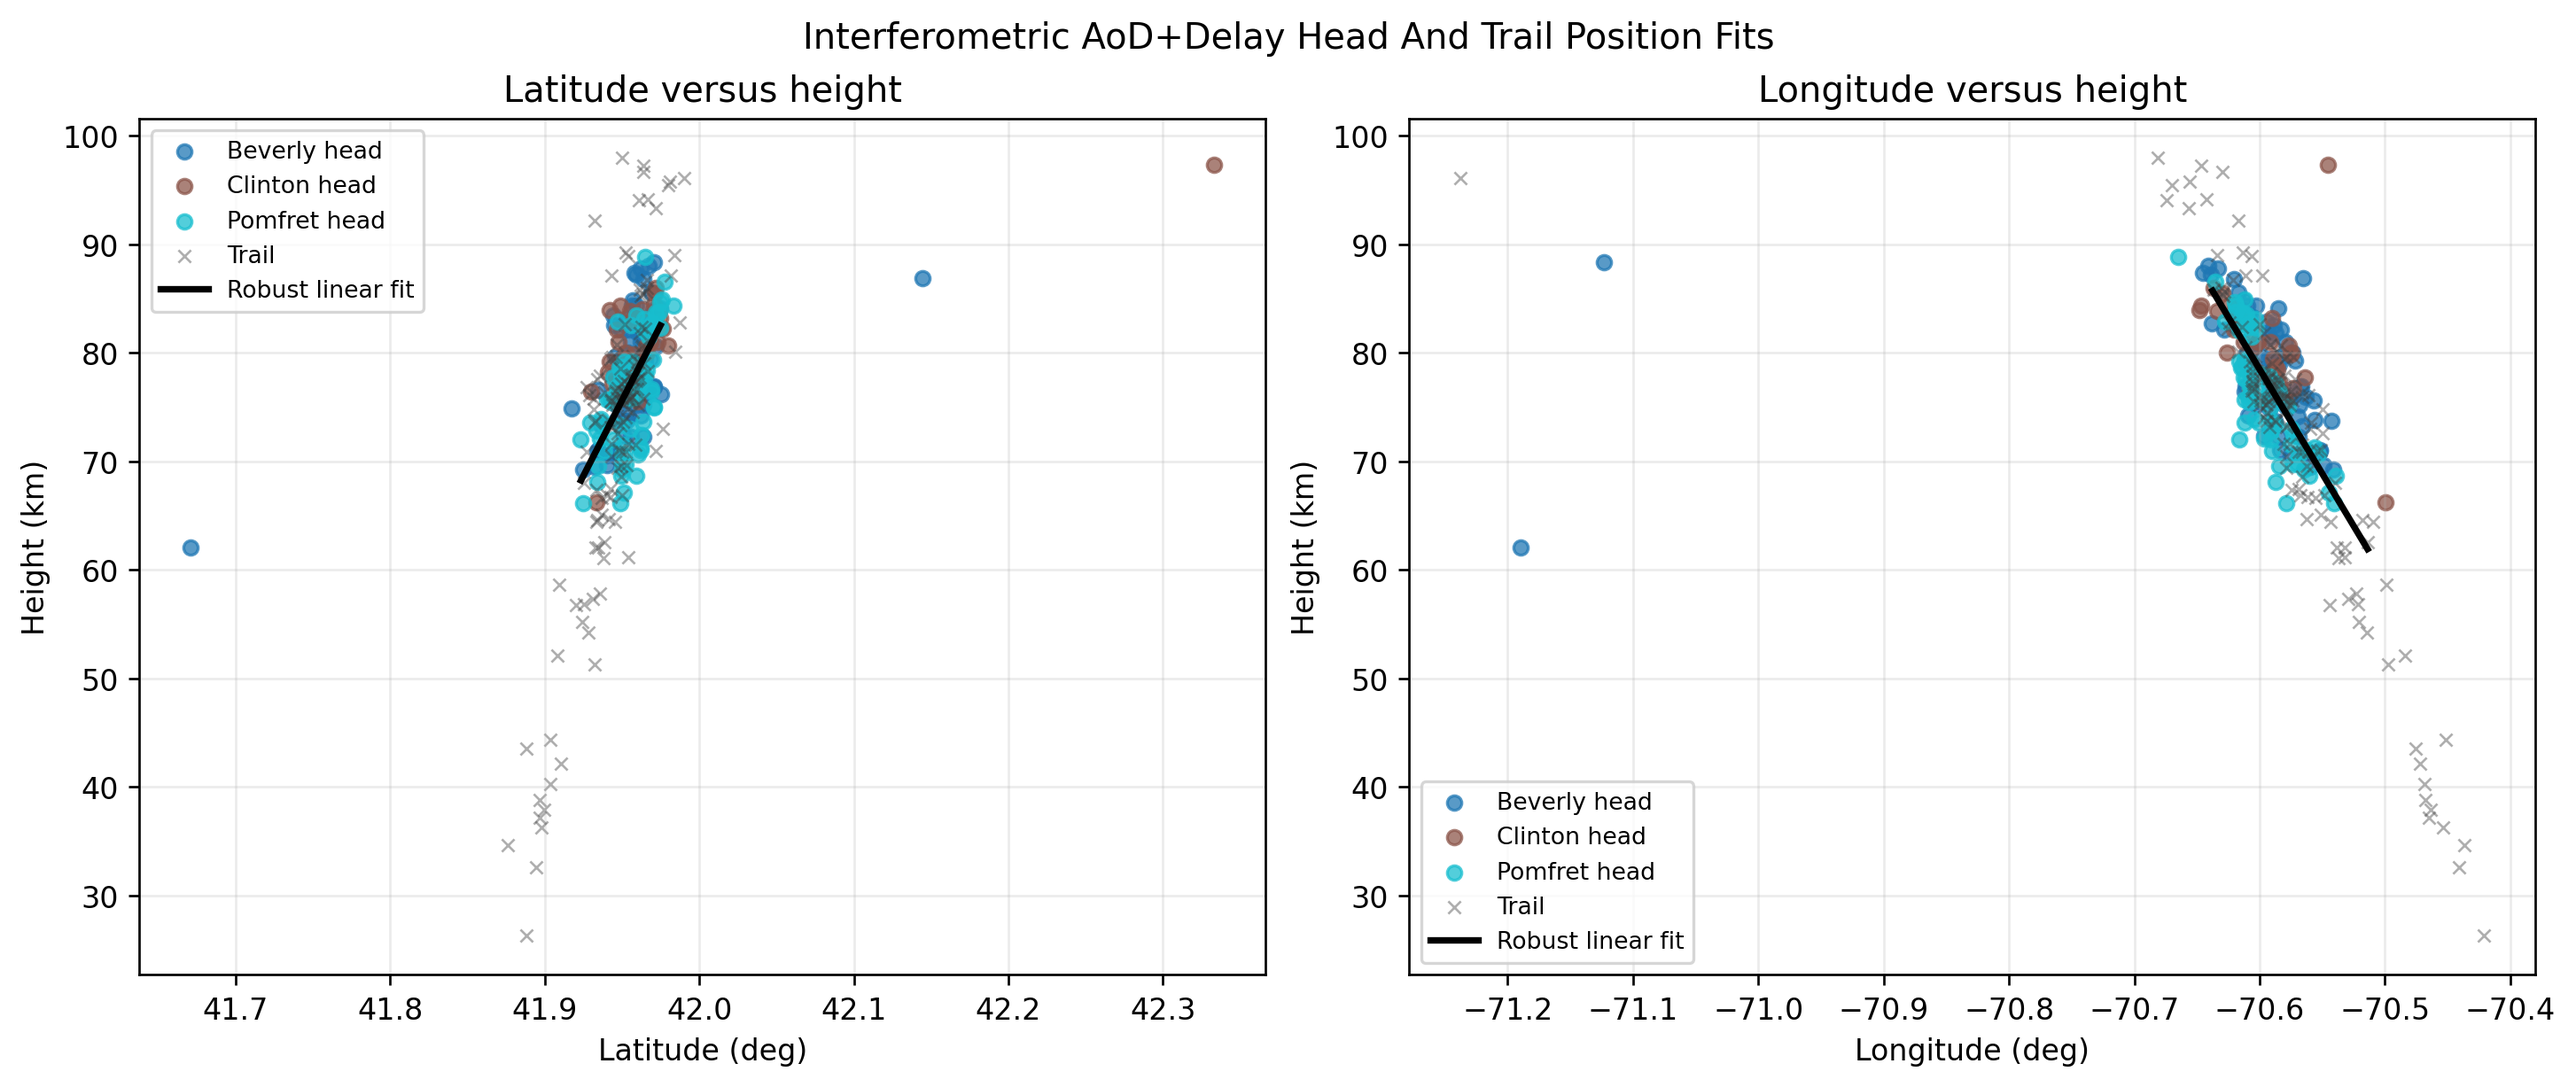
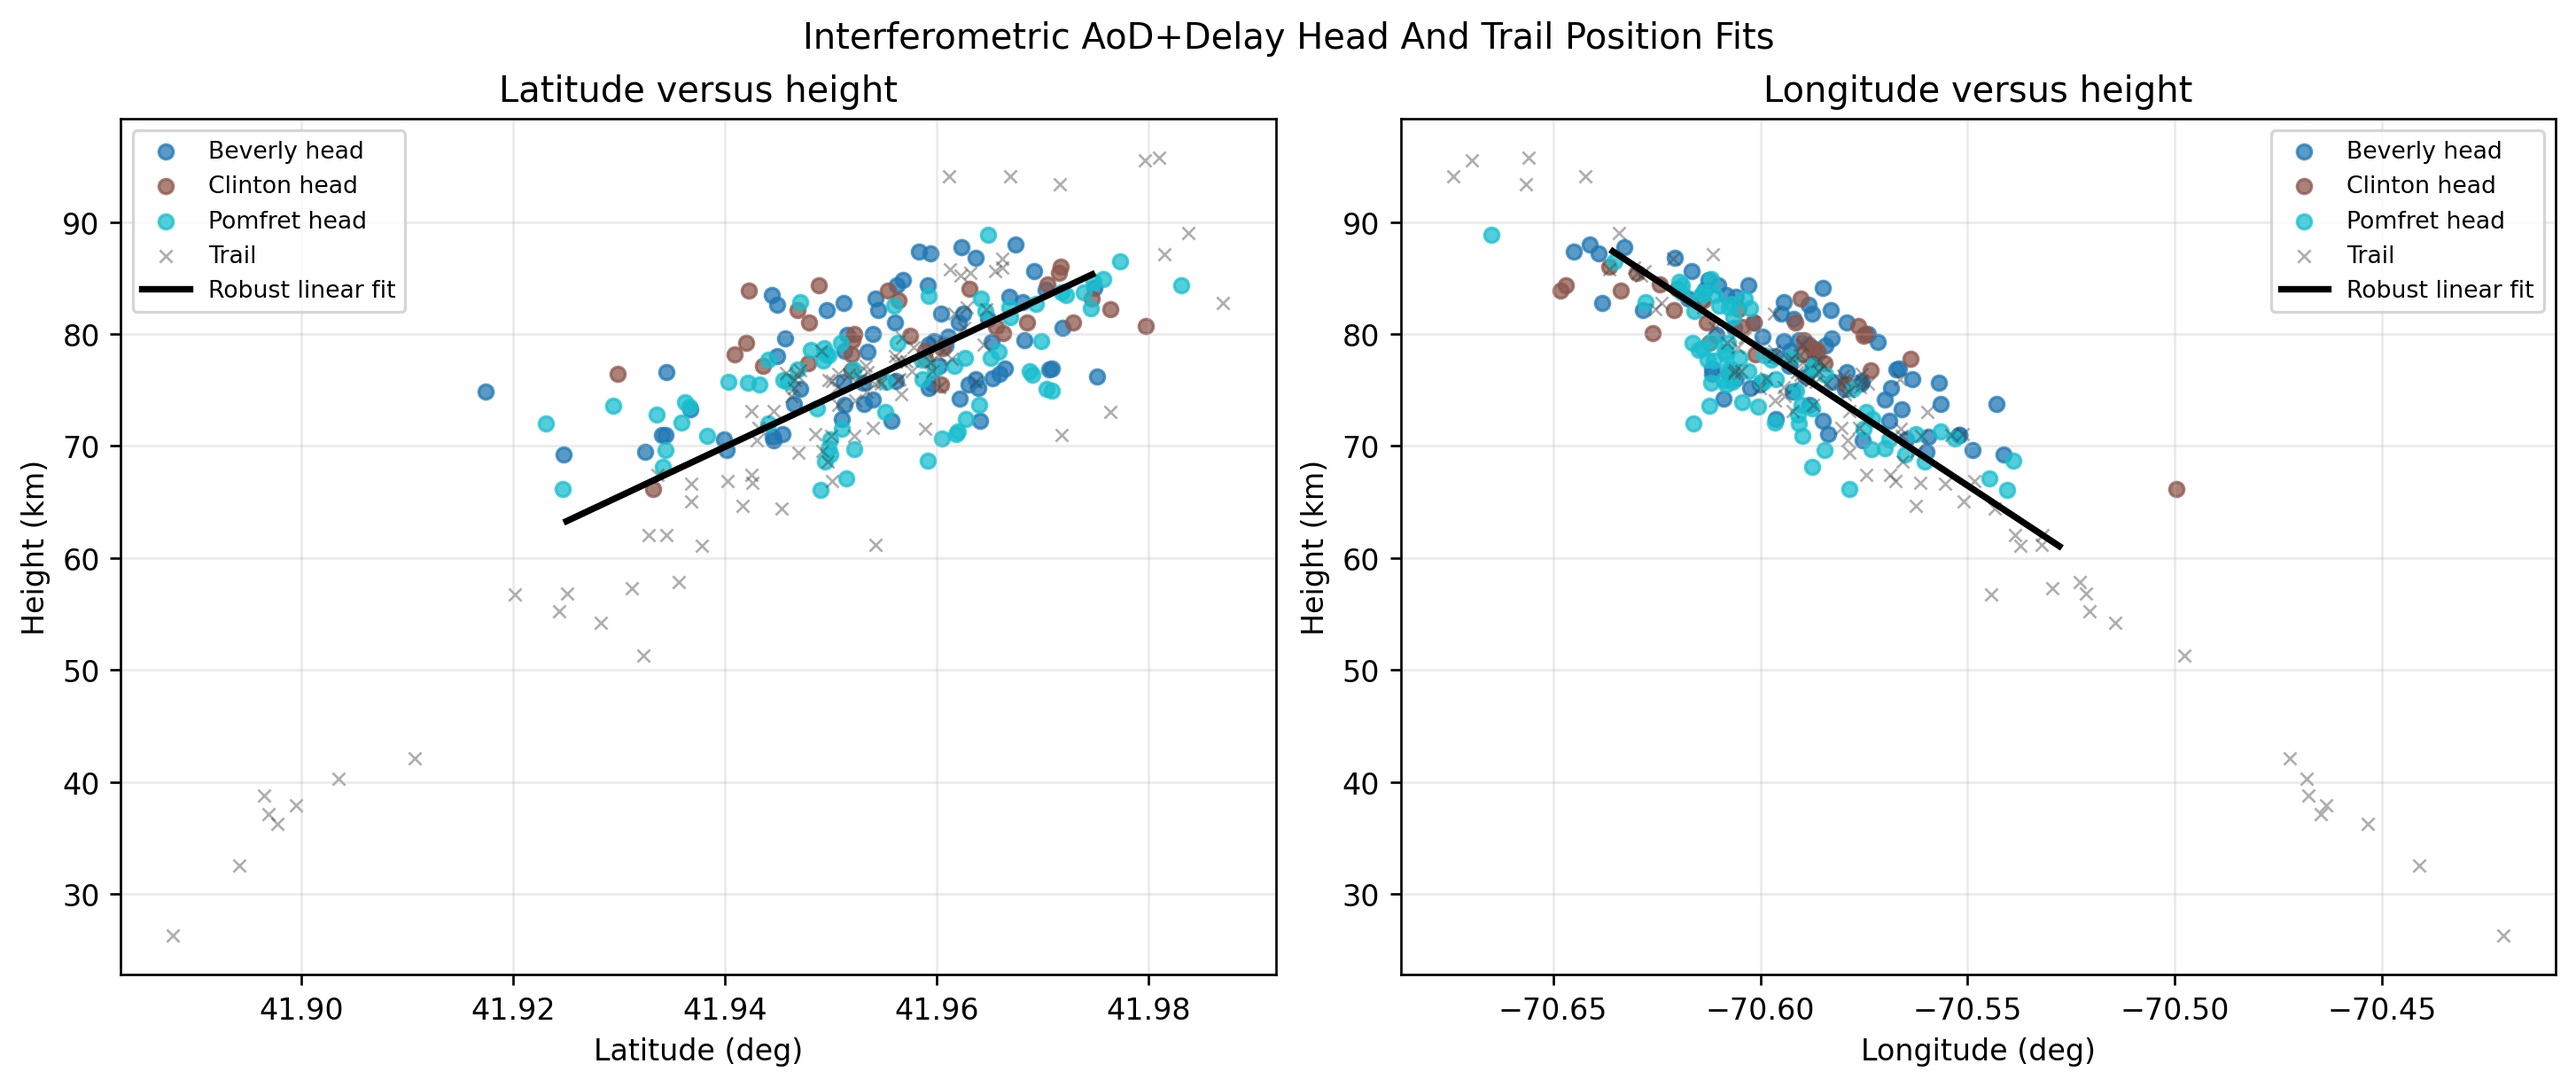
Filter AoD comparison figure geographically

diff --git a/aod_position_from_merged.py b/aod_position_from_merged.py
@@ -30,6 +30,8 @@ DEFAULT_TRAIL_POSITIONS = "products/specular_trail_positions/specular_trail_posi
 DEFAULT_OUT_DIR = "products/aod_position_from_merged"
 DEFAULT_REPORT_FIG = "reports/figures/head_echo_aod_tristatic_comparison.png"
 DEFAULT_REPORT_TEX = "reports/aod_tristatic_comparison_summary.tex"
+FIGURE_LAT_RANGE_DEG = (41.8, 42.05)
+FIGURE_LON_RANGE_DEG = (-70.8, -70.4)
 
 
 def load_rdmf_station(path):
@@ -234,6 +236,19 @@ def closest_points_on_spatial_line(line_fit, points_enu):
     points = np.asarray(points_enu, dtype=float)
     along = (points - point) @ direction
     return point + along[:, None] * direction
+
+
+def in_figure_geo_window(row):
+    lat = float(row["lat_deg"])
+    lon = float(row["lon_deg"])
+    return (
+        FIGURE_LAT_RANGE_DEG[0] <= lat <= FIGURE_LAT_RANGE_DEG[1]
+        and FIGURE_LON_RANGE_DEG[0] <= lon <= FIGURE_LON_RANGE_DEG[1]
+    )
+
+
+def figure_geo_filtered(rows):
+    return [r for r in rows if in_figure_geo_window(r)]
 
 
 def is_ballistic_fit(fit):
@@ -472,7 +487,11 @@ def plot_map(rows, fit, sites, tx_ecef, rot, line_fit, out_png, uncertainty_samp
 
 
 def plot_appendix_comparison(rows, trail_rows, fit, tx_ecef, rot, line_fit, combined_line_fit, summary, out_png):
+    rows = figure_geo_filtered(rows)
+    trail_rows = figure_geo_filtered(trail_rows)
     all_rows = rows + trail_rows
+    if len(all_rows) < 2:
+        raise ValueError("Too few AoD+delay measurements remain after the figure geographic filter")
     lat = np.array([r["lat_deg"] for r in all_rows], dtype=float)
     lon = np.array([r["lon_deg"] for r in all_rows], dtype=float)
     height_km = np.array([r["alt_m"] for r in all_rows], dtype=float) / 1000.0
@@ -561,7 +580,10 @@ def write_report_summary(summary, out_tex, fit=None):
         f"\\newcommand{{\\AodTriPomfretMedianKm}}{{{by_station['pomfret']['median_position_error_vs_tristatic_m']/1000.0:.1f}}}",
         f"\\newcommand{{\\AodTriFigN}}{{{fig_filter['n_used']}}}",
         f"\\newcommand{{\\AodTriFigNRejected}}{{{fig_filter['n_rejected']}}}",
-        f"\\newcommand{{\\AodTriFigOutlierCutoffKm}}{{{fig_filter['cutoff_m']/1000.0:.1f}}}",
+        f"\\newcommand{{\\AodTriFigLatMin}}{{{fig_filter['lat_range_deg'][0]:.2f}}}",
+        f"\\newcommand{{\\AodTriFigLatMax}}{{{fig_filter['lat_range_deg'][1]:.2f}}}",
+        f"\\newcommand{{\\AodTriFigLonMin}}{{{fig_filter['lon_range_deg'][0]:.2f}}}",
+        f"\\newcommand{{\\AodTriFigLonMax}}{{{fig_filter['lon_range_deg'][1]:.2f}}}",
         f"\\newcommand{{\\AodTriFigMedianPointKm}}{{{fig_filter['median_position_error_vs_tristatic_m']/1000.0:.1f}}}",
         f"\\newcommand{{\\AodTriFigRmsPointKm}}{{{fig_filter['rms_position_error_vs_tristatic_m']/1000.0:.1f}}}",
         f"\\newcommand{{\\AodTriFigMedianCrossTrackKm}}{{{fig_filter['median_signed_cross_track_km']:.1f}}}",
@@ -617,8 +639,7 @@ def summarize(rows, line_fit, fit, combined_line_fit=None, combined_rows=None):
     else:
         cross_track_unit = np.array([1.0, 0.0, 0.0])
     signed_cross_track_km = ((pos - tri) @ cross_track_unit) / 1000.0
-    cutoff_m = 4000.0
-    keep = np.abs(signed_cross_track_km) <= cutoff_m / 1000.0
+    keep = np.array([in_figure_geo_window(r) for r in rows], dtype=bool)
     filtered_err = err[keep]
     filtered_signed_cross_track_km = signed_cross_track_km[keep]
     fit_pred = line_fit["predicted_enu_m"]
@@ -669,8 +690,9 @@ def summarize(rows, line_fit, fit, combined_line_fit=None, combined_rows=None):
             "tristatic_speed_mps": float(np.linalg.norm(tri_velocity)),
         },
         "figure_outlier_filter": {
-            "method": "abs_signed_cross_track_residual_le_4_km",
-            "cutoff_m": float(cutoff_m),
+            "method": "geographic_lat_lon_window",
+            "lat_range_deg": list(FIGURE_LAT_RANGE_DEG),
+            "lon_range_deg": list(FIGURE_LON_RANGE_DEG),
             "n_used": int(np.sum(keep)),
             "n_rejected": int(np.sum(~keep)),
             "keep_mask": keep.astype(bool).tolist(),

diff --git a/reports/aod_tristatic_comparison_summary.tex b/reports/aod_tristatic_comparison_summary.tex
@@ -6,20 +6,23 @@
 \newcommand{\AodTriRmsPointKm}{9.2}
 \newcommand{\AodTriFitRmsKm}{5.1}
 \newcommand{\AodTriFitMedianKm}{5.2}
-\newcommand{\AodTriCombinedN}{328}
-\newcommand{\AodTriCombinedTrailN}{147}
-\newcommand{\AodTriCombinedFitRmsKm}{2.9}
-\newcommand{\AodTriCombinedFitMedianKm}{2.0}
-\newcommand{\AodTriCombinedFitResidualRmsKm}{5.7}
+\newcommand{\AodTriCombinedN}{281}
+\newcommand{\AodTriCombinedTrailN}{100}
+\newcommand{\AodTriCombinedFitRmsKm}{2.6}
+\newcommand{\AodTriCombinedFitMedianKm}{1.7}
+\newcommand{\AodTriCombinedFitResidualRmsKm}{6.0}
 \newcommand{\AodTriCombinedFitAngleDeg}{3.86}
 \newcommand{\AodTriMedianUncertaintyKm}{4.6}
 \newcommand{\AodTriBeverlyMedianKm}{4.6}
 \newcommand{\AodTriClintonMedianKm}{5.8}
 \newcommand{\AodTriPomfretMedianKm}{6.3}
-\newcommand{\AodTriFigN}{175}
-\newcommand{\AodTriFigNRejected}{6}
-\newcommand{\AodTriFigOutlierCutoffKm}{4.0}
-\newcommand{\AodTriFigMedianPointKm}{5.6}
-\newcommand{\AodTriFigRmsPointKm}{6.0}
+\newcommand{\AodTriFigN}{177}
+\newcommand{\AodTriFigNRejected}{4}
+\newcommand{\AodTriFigLatMin}{41.80}
+\newcommand{\AodTriFigLatMax}{42.05}
+\newcommand{\AodTriFigLonMin}{-70.80}
+\newcommand{\AodTriFigLonMax}{-70.40}
+\newcommand{\AodTriFigMedianPointKm}{5.7}
+\newcommand{\AodTriFigRmsPointKm}{6.1}
 \newcommand{\AodTriFigMedianCrossTrackKm}{-0.2}
-\newcommand{\AodTriFigRmsCrossTrackKm}{1.3}
+\newcommand{\AodTriFigRmsCrossTrackKm}{1.4}
